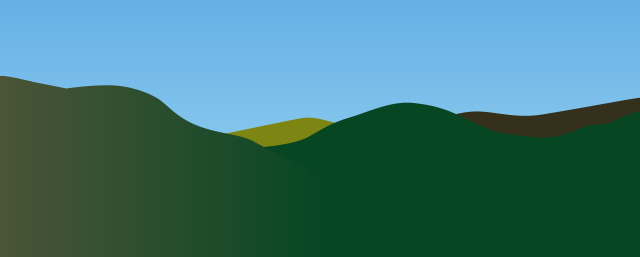
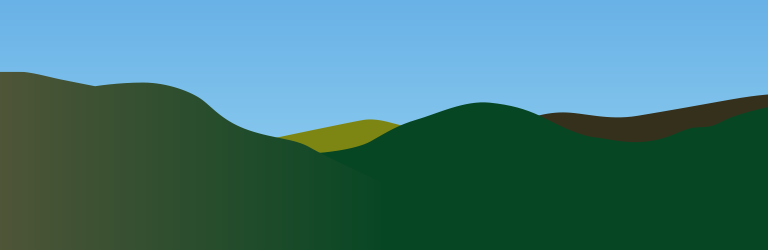
Home Page stylings - responsive

diff --git a/app/assets/stylesheets/clacksStyles.scss b/app/assets/stylesheets/clacksStyles.scss
@@ -24,7 +24,6 @@ $green:         #449d44;
 
 /* LAYOUT STYLES *******************/
 body {
-  background: url('ck-background-mobile.png') top center #77a441 no-repeat;;
   color: $main-blue;
   font-family: 'Lato', sans-serif;
 }
@@ -58,6 +57,18 @@ footer {
   }
  }
 }
+
+.navbar-nav {
+  li {
+   margin: 1em;
+   a {
+    color: white; font-weight: 600;
+    padding: 0 0 2px 0;
+    &:hover { background: none; border-bottom: 2px solid white; padding: 0;}
+      }
+   }
+ }
+
 
 /* BUTTON STYLES *******************/
 .button {
@@ -195,6 +206,9 @@ footer {
 
 /* Small devices (tablets, 768px and up) */
 @media (max-width: 767px) {
+  body {
+   background: url('ck-background-mobile.png') top center #77a441 no-repeat;;
+  }
   #homePage input#searchBox {
     width: 60% !important;
     display: inline;
@@ -224,8 +238,25 @@ footer {
 }
 /* Small devices (tablets, 768px and up) */
 @media (min-width: 768px) {
+  body {
+     background: url('ck-background-desktop.png') top center #77a441 no-repeat;
+     padding-top: 2em;
+  }
   .navbar-nav {
     float: right;
+  }
+  .navbar-brand {
+   position: absolute;
+   width: 100%;
+   margin-bottom: 2em;
+  }
+  .navbar-collapse {
+   position: relative;
+   top: -2em;
+   z-index: 1000;
+  }
+  #homePage {
+   margin-top: 80px;
   }
   .tab-content > .tab-pane {
     display: block !important;
